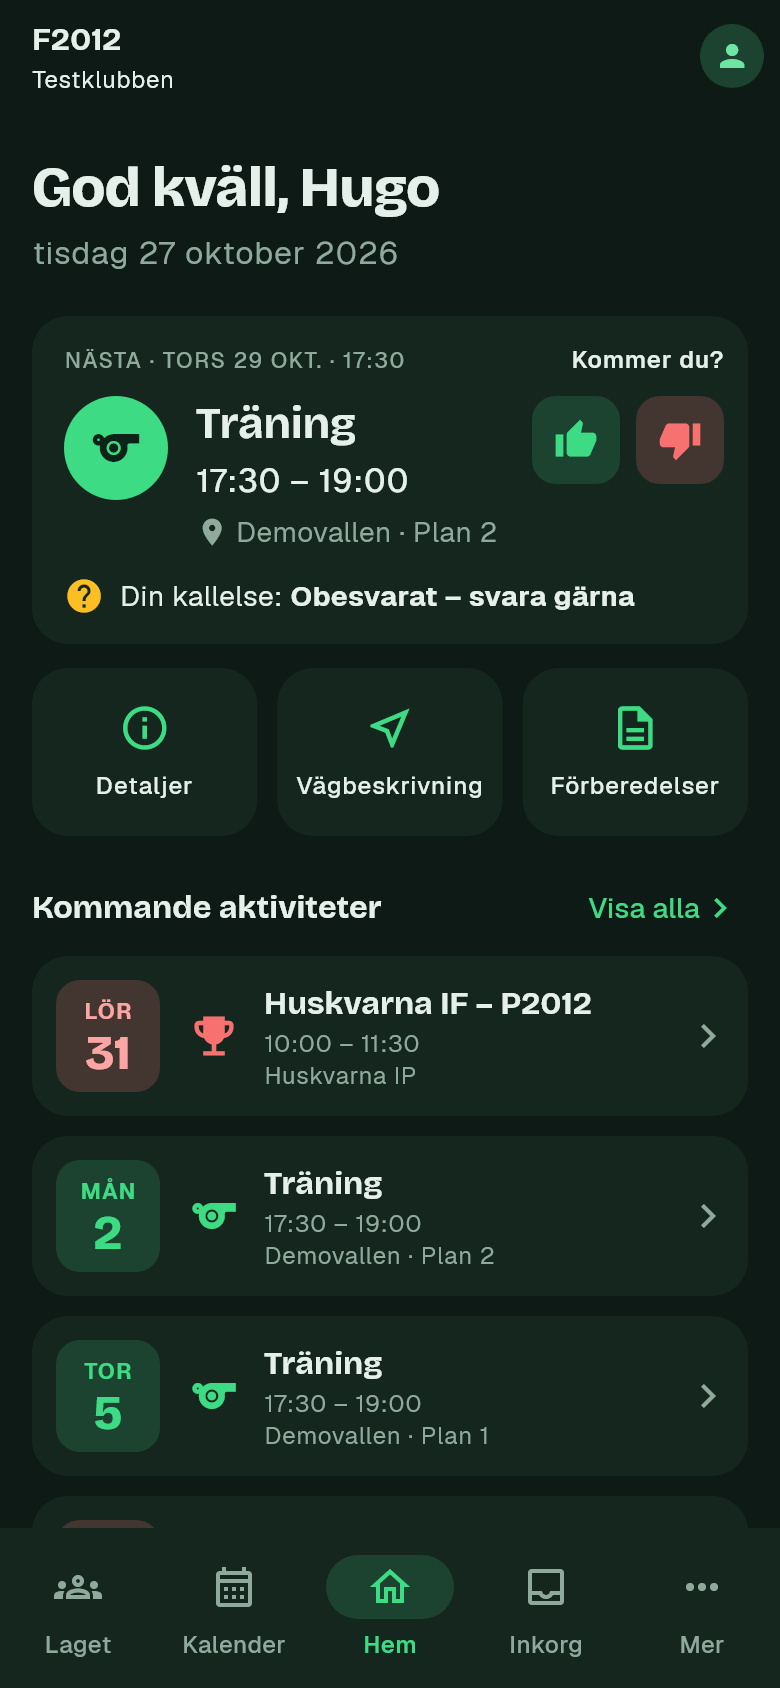
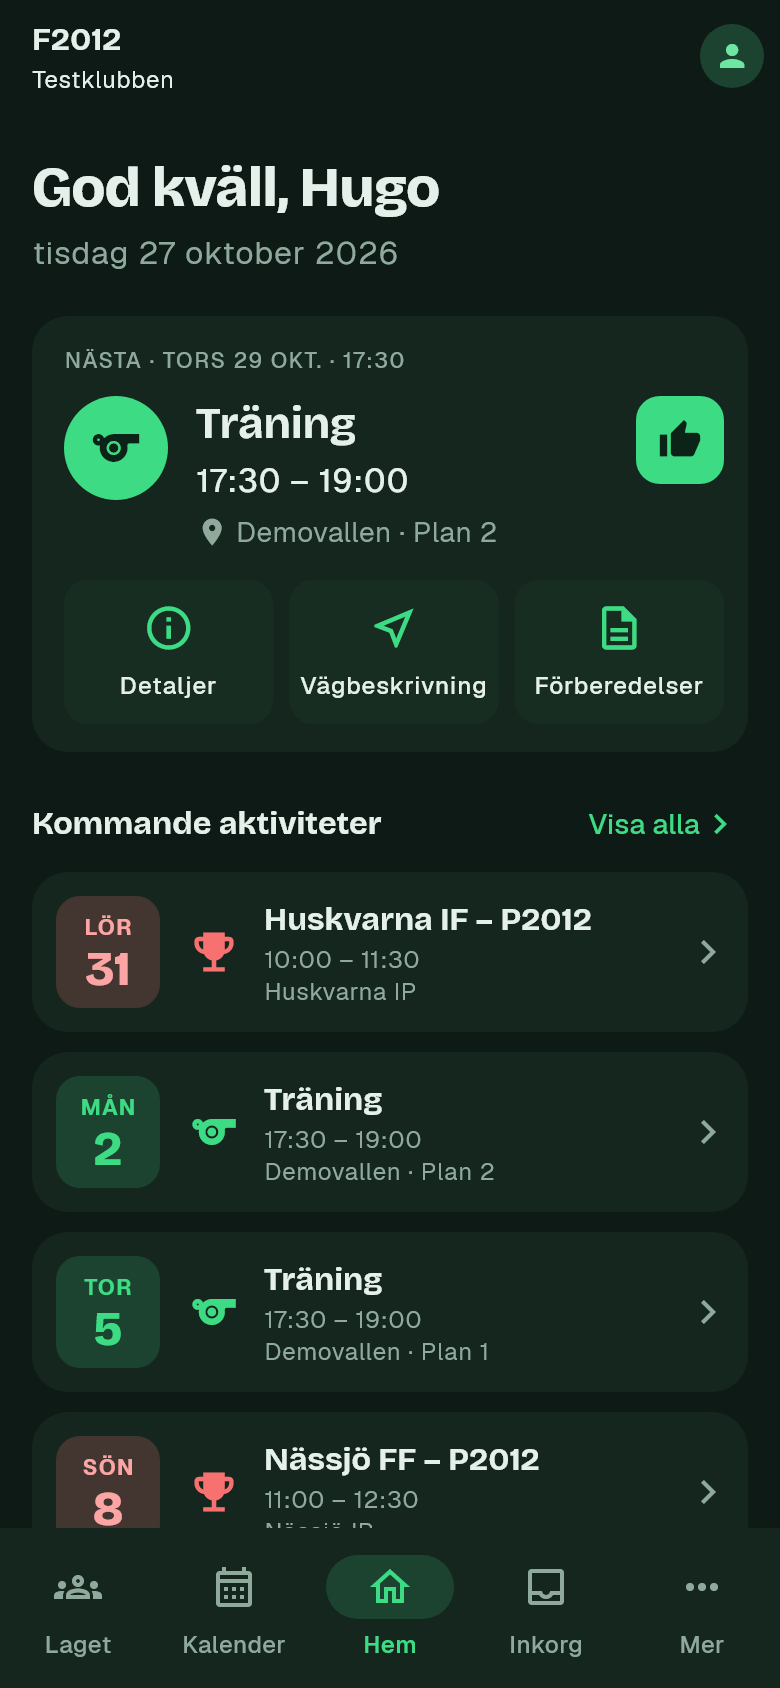
Home next card: thumbs follow the answer, quick actions inside
Drop the callup status line from the next-event card. Unanswered shows
both thumbs; an answer shows only its own thumb, and tapping it asks
before switching (declining still asks for a reason). The three quick
actions now sit inside the card.

diff --git a/lib/src/features/overview/home_event_cards.dart b/lib/src/features/overview/home_event_cards.dart
@@ -21,9 +21,9 @@ IconData _homeEventIcon(String type) => switch (type) {
 };
 
 /// The Home page's hero card: what is on now, later today, tomorrow or
-/// next — a round accent badge, title, time and place, thumbs up/down
-/// while the own callup can be answered — followed by three quick-action
-/// tiles for the same event.
+/// next — a round accent badge, title, time and place, the own callup as
+/// thumbs (see [_HomeRsvpButtons]) and three quick-action tiles for the
+/// same event along the bottom.
 class _HomeHeroEventCard extends StatelessWidget {
   const _HomeHeroEventCard({
     required this.event,
@@ -74,13 +74,26 @@ class _HomeHeroEventCard extends StatelessWidget {
       event.address,
     ].whereType<String>().where((value) => value.trim().isNotEmpty).join(' · ');
     final callup = event.myCallup;
-    final canRespond = callup != null && callup.canRespond;
+    // Called and unanswered: both thumbs under "Kommer du?". Answered:
+    // only the chosen thumb, which changes the answer when it can.
+    final unanswered =
+        callup != null && callup.canRespond && callup.state == 'pending';
+    final answered = callup != null && callup.state != 'pending';
     String clock(DateTime at) =>
         material.formatTimeOfDay(TimeOfDay.fromDateTime(at.toLocal()));
     final eventRoute = ProductRouteContract.calendarEvent(event.id);
-    final card = Card(
+    final directions = place.isEmpty
+        ? null
+        : () => launchUrl(
+            Uri.https('www.google.com', '/maps/search/', {
+              'api': '1',
+              'query': place,
+            }),
+            mode: LaunchMode.externalApplication,
+          );
+    return Card(
       key: const Key('home-hero-event'),
-      margin: EdgeInsets.zero,
+      margin: const EdgeInsets.only(bottom: 16),
       clipBehavior: Clip.antiAlias,
       child: InkWell(
         onTap: () => onNavigate(eventRoute),
@@ -100,7 +113,7 @@ class _HomeHeroEventCard extends StatelessWidget {
                       ),
                     ),
                   ),
-                  if (canRespond)
+                  if (unanswered)
                     Text(
                       strings.feature('Kommer du?'),
                       style: theme.textTheme.labelMedium?.copyWith(
@@ -166,9 +179,10 @@ class _HomeHeroEventCard extends StatelessWidget {
                       ],
                     ),
                   ),
-                  if (canRespond)
+                  if (unanswered || answered)
                     _HomeRsvpButtons(
                       response: callup.state,
+                      canChange: callup.canRespond,
                       busy: pendingCallupId != null,
                       onRespond: (response) => onRespond(callup, response),
                     )
@@ -176,75 +190,85 @@ class _HomeHeroEventCard extends StatelessWidget {
                     Icon(Icons.chevron_right, color: palette.muted),
                 ],
               ),
-              if (callup != null)
-                Padding(
-                  padding: const EdgeInsets.only(top: 12),
-                  child: _CallupStatus(callup: callup),
-                ),
+              const SizedBox(height: 14),
+              Row(
+                spacing: 8,
+                children: [
+                  _HomeQuickTile(
+                    icon: Icons.info_outline,
+                    label: strings.feature('Detaljer'),
+                    onTap: () => onNavigate(eventRoute),
+                  ),
+                  _HomeQuickTile(
+                    icon: Icons.near_me_outlined,
+                    label: strings.feature('Vägbeskrivning'),
+                    onTap: directions,
+                  ),
+                  _HomeQuickTile(
+                    icon: Icons.description_outlined,
+                    label: strings.feature('Förberedelser'),
+                    onTap: () => onNavigate('$eventRoute?tab=preparation'),
+                  ),
+                ],
+              ),
             ],
           ),
         ),
       ),
     );
-    final directions = place.isEmpty
-        ? null
-        : () => launchUrl(
-            Uri.https('www.google.com', '/maps/search/', {
-              'api': '1',
-              'query': place,
-            }),
-            mode: LaunchMode.externalApplication,
-          );
-    return Padding(
-      padding: const EdgeInsets.only(bottom: 16),
-      child: Column(
-        crossAxisAlignment: CrossAxisAlignment.stretch,
-        children: [
-          card,
-          const SizedBox(height: 12),
-          Row(
-            spacing: 10,
-            children: [
-              _HomeQuickTile(
-                icon: Icons.info_outline,
-                label: strings.feature('Detaljer'),
-                onTap: () => onNavigate(eventRoute),
-              ),
-              _HomeQuickTile(
-                icon: Icons.near_me_outlined,
-                label: strings.feature('Vägbeskrivning'),
-                onTap: directions,
-              ),
-              _HomeQuickTile(
-                icon: Icons.description_outlined,
-                label: strings.feature('Förberedelser'),
-                onTap: () => onNavigate('$eventRoute?tab=preparation'),
-              ),
-            ],
-          ),
-        ],
-      ),
-    );
   }
 }
 
-/// Thumbs up/down for the hero card's callup: soft mint and pale red
-/// tiles, the chosen answer filled. Declining still asks for a reason.
+/// The hero card's callup as thumbs. Unanswered: a soft mint thumb up
+/// and a pale red thumb down. Answered: only the chosen thumb, filled;
+/// tapping it asks before switching to the other answer (and declining
+/// still asks for a reason, in [onRespond]).
 class _HomeRsvpButtons extends StatelessWidget {
   const _HomeRsvpButtons({
     required this.response,
+    required this.canChange,
     required this.busy,
     required this.onRespond,
   });
   final String response;
+  final bool canChange;
   final bool busy;
   final ValueChanged<String> onRespond;
+
+  Future<void> _change(BuildContext context, String to) async {
+    final strings = AppStrings.of(context);
+    final confirmed = await showDialog<bool>(
+      context: context,
+      builder: (context) => AlertDialog(
+        title: Text(strings.feature('Ändra svar?')),
+        content: Text(
+          strings.feature(
+            to == 'declined'
+                ? 'Du har tackat ja. Vill du ändra ditt svar till nej?'
+                : 'Du har tackat nej. Vill du ändra ditt svar till ja?',
+          ),
+        ),
+        actions: [
+          TextButton(
+            onPressed: () => Navigator.pop(context, false),
+            child: Text(strings.cancel),
+          ),
+          FilledButton(
+            onPressed: () => Navigator.pop(context, true),
+            child: Text(strings.feature('Ändra svar')),
+          ),
+        ],
+      ),
+    );
+    if (confirmed == true) onRespond(to);
+  }
 
   @override
   Widget build(BuildContext context) {
     final strings = AppStrings.of(context);
     final palette = AppPalette.of(context);
     final colors = Theme.of(context).colorScheme;
+    final answered = response != 'pending';
     Widget button({
       required String value,
       required String label,
@@ -255,20 +279,24 @@ class _HomeRsvpButtons extends StatelessWidget {
       required Color onStrong,
     }) {
       final selected = response == value;
+      final other = value == 'accepted' ? 'declined' : 'accepted';
       return Tooltip(
         message: selected ? chosenLabel : label,
         child: Semantics(
           selected: selected,
           child: IconButton(
-            onPressed: busy
+            onPressed: busy || !canChange
                 ? null
                 : selected
-                ? () {}
+                ? () => _change(context, other)
                 : () => onRespond(value),
             style: IconButton.styleFrom(
               backgroundColor: selected ? strong : soft,
               foregroundColor: selected ? onStrong : strong,
-              disabledBackgroundColor: soft.withValues(alpha: .6),
+              disabledBackgroundColor: (selected ? strong : soft).withValues(
+                alpha: .6,
+              ),
+              disabledForegroundColor: selected ? onStrong : strong,
               fixedSize: const Size(44, 44),
               minimumSize: const Size(44, 44),
               tapTargetSize: MaterialTapTargetSize.shrinkWrap,
@@ -286,30 +314,33 @@ class _HomeRsvpButtons extends StatelessWidget {
       mainAxisSize: MainAxisSize.min,
       spacing: 8,
       children: [
-        button(
-          value: 'accepted',
-          label: strings.feature('Acceptera'),
-          chosenLabel: strings.feature('Accepterat'),
-          icon: Icons.thumb_up,
-          soft: palette.accentSoft,
-          strong: palette.accent,
-          onStrong: colors.onPrimary,
-        ),
-        button(
-          value: 'declined',
-          label: strings.feature('Avböj'),
-          chosenLabel: strings.feature('Avböjt'),
-          icon: Icons.thumb_down,
-          soft: palette.dangerSoft,
-          strong: palette.danger,
-          onStrong: Colors.white,
-        ),
+        if (!answered || response == 'accepted')
+          button(
+            value: 'accepted',
+            label: strings.feature('Acceptera'),
+            chosenLabel: strings.feature('Accepterat'),
+            icon: Icons.thumb_up,
+            soft: palette.accentSoft,
+            strong: palette.accent,
+            onStrong: colors.onPrimary,
+          ),
+        if (!answered || response == 'declined')
+          button(
+            value: 'declined',
+            label: strings.feature('Avböj'),
+            chosenLabel: strings.feature('Avböjt'),
+            icon: Icons.thumb_down,
+            soft: palette.dangerSoft,
+            strong: palette.danger,
+            onStrong: Colors.white,
+          ),
       ],
     );
   }
 }
 
-/// A square quick-action tile: an accent icon over a short label.
+/// A quick-action tile inside the hero card: an accent icon over a short
+/// label, on a flat tile one step off the card's color.
 class _HomeQuickTile extends StatelessWidget {
   const _HomeQuickTile({
     required this.icon,
@@ -325,13 +356,14 @@ class _HomeQuickTile extends StatelessWidget {
     final palette = AppPalette.of(context);
     final enabled = onTap != null;
     return Expanded(
-      child: Card(
-        margin: EdgeInsets.zero,
+      child: Material(
+        color: Theme.of(context).colorScheme.surfaceContainer,
+        borderRadius: BorderRadius.circular(AppRadius.chip),
         clipBehavior: Clip.antiAlias,
         child: InkWell(
           onTap: onTap,
           child: SizedBox(
-            height: 84,
+            height: 72,
             child: Column(
               mainAxisAlignment: MainAxisAlignment.center,
               children: [

diff --git a/test/prep01_event_preparation_test.dart b/test/prep01_event_preparation_test.dart
@@ -157,12 +157,18 @@ void main() {
       find.descendant(of: hero, matching: find.text('Kvällsmatch')),
       findsOneWidget,
     );
+    // Unanswered: both thumbs under Kommer du?, no status text.
     expect(
-      find.descendant(
-        of: hero,
-        matching: find.textContaining('Obesvarat – svara gärna'),
-      ),
+      find.descendant(of: hero, matching: find.text('Kommer du?')),
       findsOneWidget,
+    );
+    expect(
+      find.descendant(of: hero, matching: find.byTooltip('Avböj')),
+      findsOneWidget,
+    );
+    expect(
+      find.descendant(of: hero, matching: find.textContaining('Din kallelse')),
+      findsNothing,
     );
     expect(find.text('Resten av idag'), findsOneWidget);
     expect(find.textContaining('Avslutad'), findsOneWidget);
@@ -173,7 +179,7 @@ void main() {
     // A declined callup is filled red and says why.
     expect(find.widgetWithText(FilledButton, 'Avböjt'), findsOneWidget);
     expect(find.textContaining('Avböjt – Sjukdom'), findsOneWidget);
-    expect(find.byKey(const ValueKey('callup-status-pending')), findsOneWidget);
+    expect(find.byKey(const ValueKey('callup-status-pending')), findsNothing);
     expect(find.text('Nästa aktivitet'), findsNothing);
 
     await tester.tap(
@@ -186,6 +192,22 @@ void main() {
       find.descendant(of: hero, matching: find.byTooltip('Accepterat')),
       findsOneWidget,
     );
+    // Answered: only the green thumb; tapping it asks before changing.
+    expect(
+      find.descendant(of: hero, matching: find.byTooltip('Avböj')),
+      findsNothing,
+    );
+    await tester.tap(
+      find.descendant(of: hero, matching: find.byTooltip('Accepterat')),
+    );
+    await tester.pumpAndSettle();
+    expect(
+      find.text('Du har tackat ja. Vill du ändra ditt svar till nej?'),
+      findsOneWidget,
+    );
+    await tester.tap(find.text('Avbryt'));
+    await tester.pumpAndSettle();
+    expect(prep.responses, [('c-match', 'accepted')]);
     expect(tester.takeException(), isNull);
   });
   testWidgets('spelarens Hem visar kallelsen i dagens kort', (tester) async {
@@ -242,12 +264,18 @@ void main() {
       find.descendant(of: hero, matching: find.text('Kvällsträning')),
       findsOneWidget,
     );
+    // Unanswered: both thumbs under Kommer du?, no status text.
     expect(
-      find.descendant(
-        of: hero,
-        matching: find.textContaining('Obesvarat – svara gärna'),
-      ),
+      find.descendant(of: hero, matching: find.text('Kommer du?')),
       findsOneWidget,
+    );
+    expect(
+      find.descendant(of: hero, matching: find.byTooltip('Avböj')),
+      findsOneWidget,
+    );
+    expect(
+      find.descendant(of: hero, matching: find.textContaining('Din kallelse')),
+      findsNothing,
     );
     expect(find.text('Kommande aktiviteter'), findsOneWidget);
     expect(find.widgetWithText(FilledButton, 'Accepterat'), findsOneWidget);

diff --git a/lib/src/core/localization/app_strings.dart b/lib/src/core/localization/app_strings.dart
@@ -345,6 +345,12 @@ class AppStrings {
     'Ingen kommande aktivitet är planerad': 'No upcoming activity is planned',
     'Resten av idag': 'The rest of today',
     'Kommer du?': 'Are you coming?',
+    'Ändra svar?': 'Change your answer?',
+    'Ändra svar': 'Change answer',
+    'Du har tackat ja. Vill du ändra ditt svar till nej?':
+        'You have accepted. Do you want to change your answer to no?',
+    'Du har tackat nej. Vill du ändra ditt svar till ja?':
+        'You have declined. Do you want to change your answer to yes?',
     'Vägbeskrivning': 'Directions',
     'Snabbåtgärder': 'Quick actions',
     'Planering och administration': 'Planning and administration',
